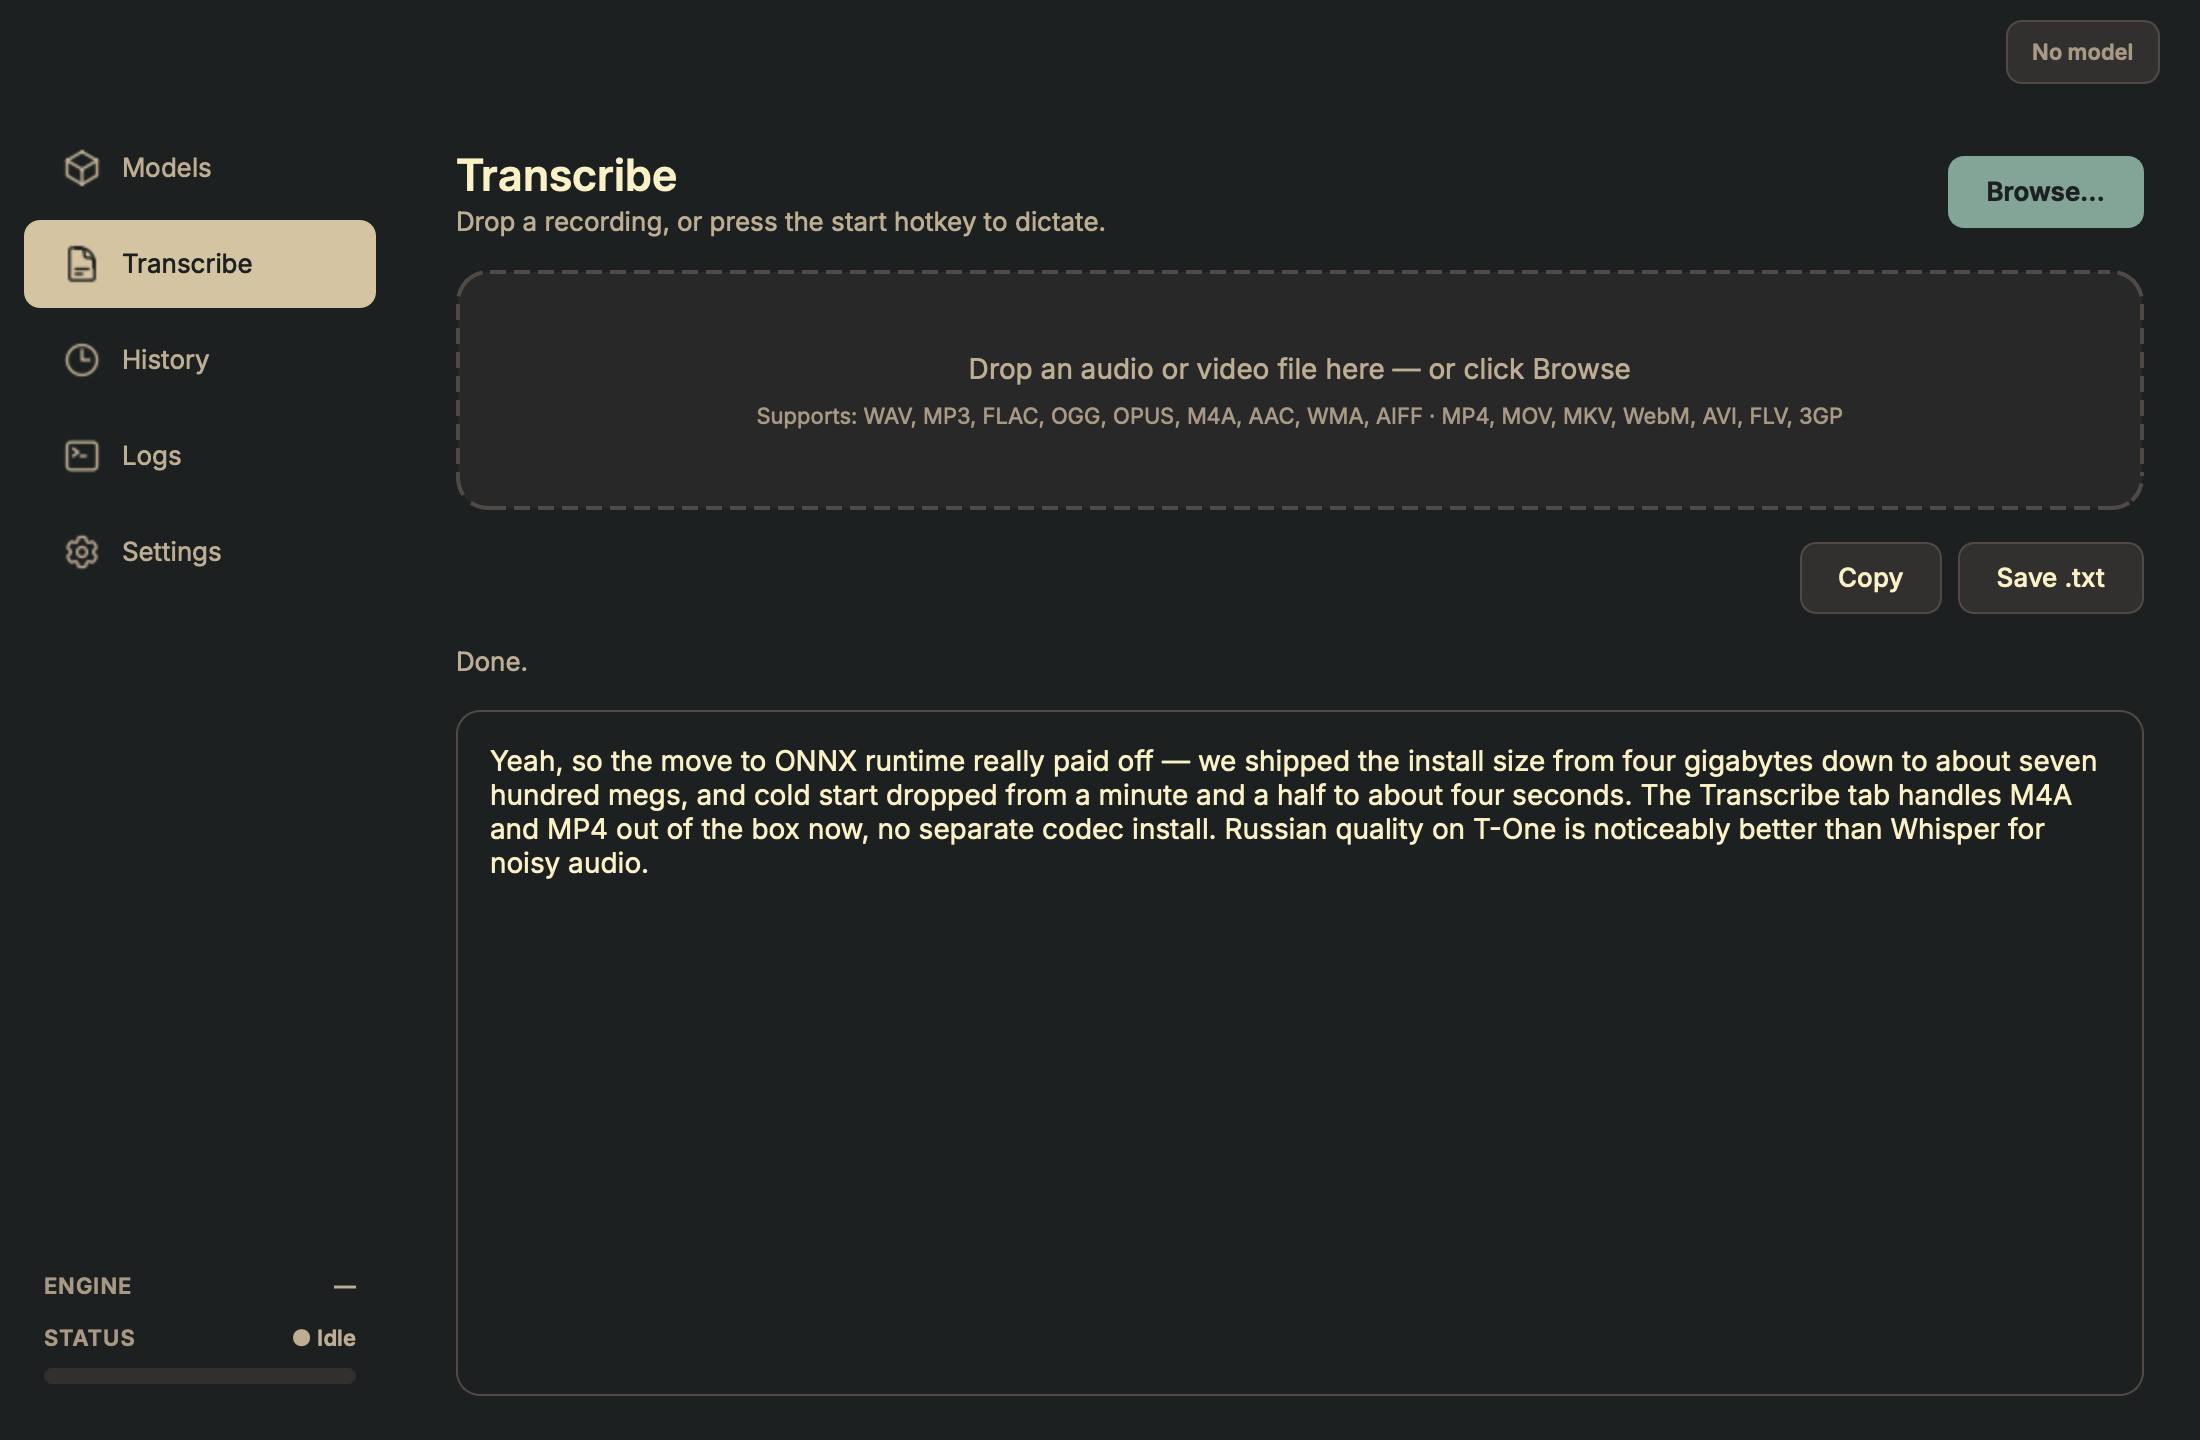
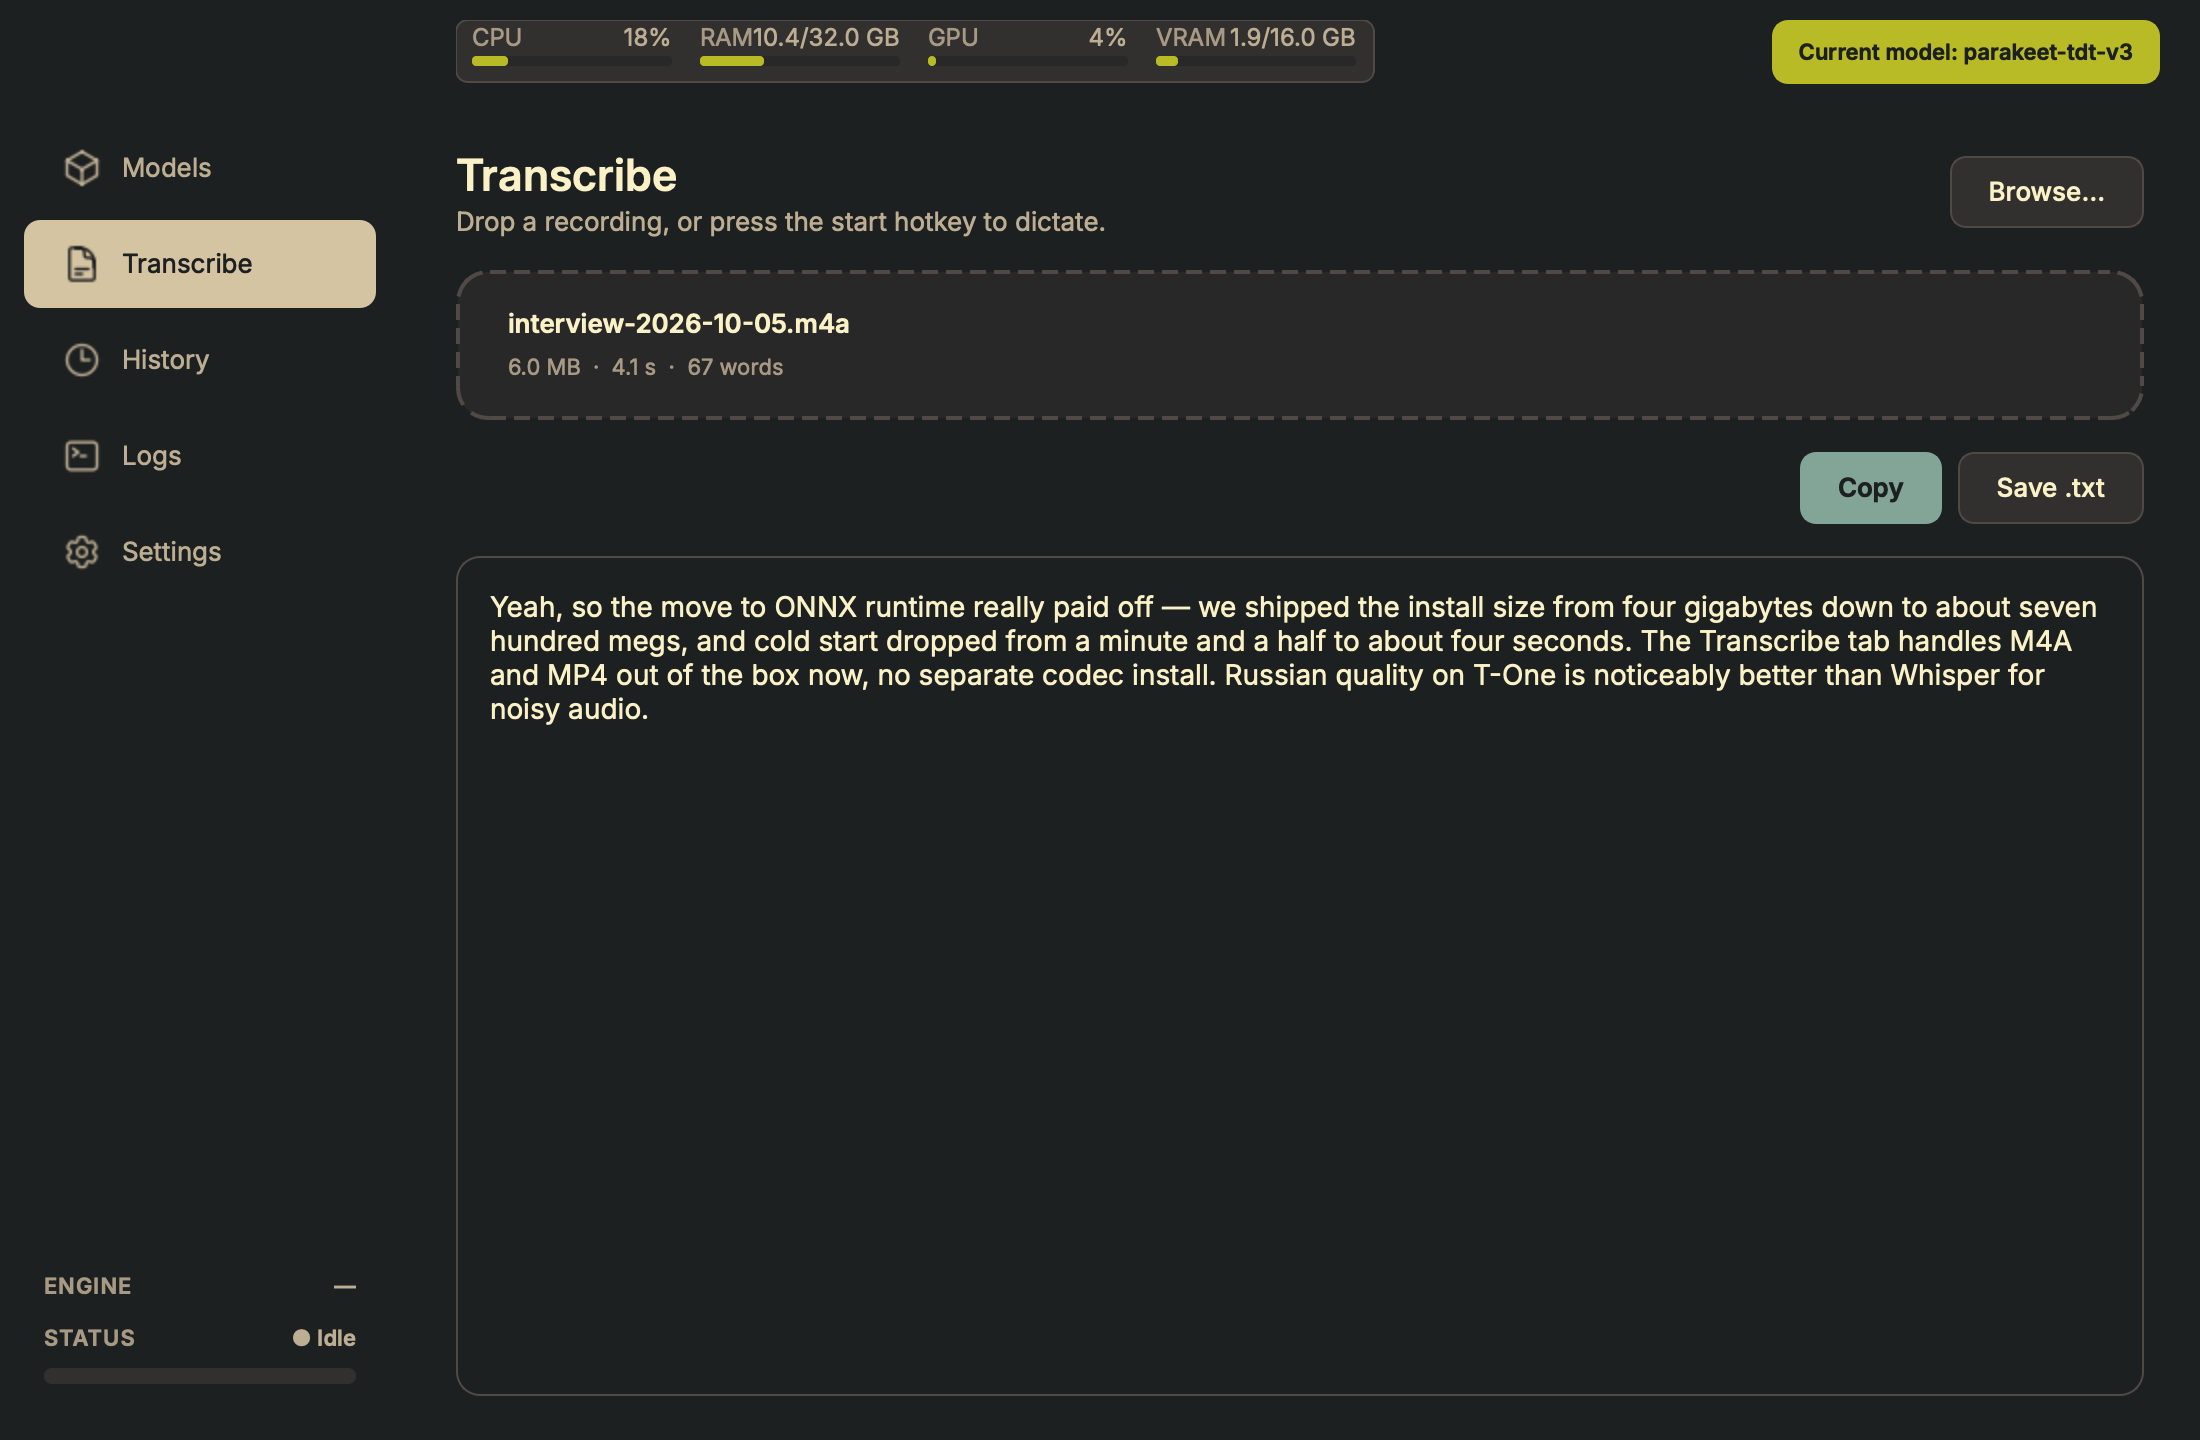
docs: screenshots that no longer contradict the measurements
models.png and hero.png still advertised Whisper Large v3 Turbo as the
"best general-purpose multilingual model" — the claim a337509 measured
and disproved, left in the repo because the screenshot was not
regenerated with the cards. They now carry the measured wording: the
weakest usable model here on Russian, and by far the slowest.

transcribe.png shows the rebuilt screen.

The seeder had two tells. `mkstemp` produced
`interview-60yijing6.m4a`, and a random token is a poor thing to print
in a README — the temp directory moves out of sight instead. And the
elapsed field rendered the real measured cost of transcribing nothing:
"1 ms" next to a 6 MB file, in a picture whose job is to look like the
app doing work. The clock is wound back by the same 4.1 s the Logs and
History seeds claim, so the three screenshots agree.

history.png, logs.png and shortcuts.png are regenerated by the same run
and deliberately left at their committed bytes. A pixel diff against
HEAD says why: history and logs differ only in the wall clock the
seeder stamps from `time.time()`, and shortcuts differs by 26.9% of
its pixels — a 100px layout shift, because this machine has since been
granted microphone access and the permission banner that used to sit
above the hotkeys is now correctly absent. Committing that would trade
a screenshot showing the permission UX for one showing a newer date.

diff --git a/scripts/generate_screenshots.py b/scripts/generate_screenshots.py
@@ -182,10 +182,20 @@ def _seed_resource_metrics(window) -> None:
 
 def _seed_transcribe_view(window) -> None:
     """Pre-fill the Transcribe view with a sample result so the
-    screenshot shows the populated state instead of the empty placeholder."""
-    sample_path = (
-        r"C:\Users\you\Desktop\interview-recording.m4a"
-    )
+    screenshot shows the populated state instead of the empty placeholder.
+
+    The file is a real one on disk. That used to be a literal
+    ``C:\\Users\\you\\Desktop\\...`` string, which does not exist on
+    either shipping platform — and now that the collapsed zone reports a
+    measured file size, a missing path would render the size blank and
+    quietly turn the screenshot into a picture of a lie.
+
+    It also has a name worth printing. ``mkstemp`` gave us
+    ``interview-60yijing6.m4a``, and a random token is a poor thing to
+    put in a README; the temp directory moves out of sight instead.
+    """
+    import tempfile
+
     sample_text = (
         "Yeah, so the move to ONNX runtime really paid off — we shipped "
         "the install size from four gigabytes down to about seven "
@@ -194,8 +204,21 @@ def _seed_transcribe_view(window) -> None:
         "out of the box now, no separate codec install. Russian quality "
         "on T-One is noticeably better than Whisper for noisy audio."
     )
+    sample_dir = tempfile.mkdtemp(prefix="l2t-screenshot-")
+    sample_path = os.path.join(sample_dir, "interview-2026-10-05.m4a")
+    try:
+        with open(sample_path, "wb") as fh:
+            fh.write(b"\0" * (6 * 1024 * 1024))
+    except OSError:  # pragma: no cover — a temp dir we cannot write to
+        pass
     view = window.transcribe_view
     view.set_busy(sample_path)
+    # Nothing is actually transcribed here, so the elapsed field would
+    # render the real measured cost of doing nothing — "1 ms" printed
+    # next to a 6 MB file, in a picture whose job is to look like the
+    # app doing work. Wind the clock back by the same 4.1 s the Logs
+    # and History seeds claim, so the three screenshots agree.
+    view._started_at -= 4.1
     view.set_result(sample_text)
 
 
